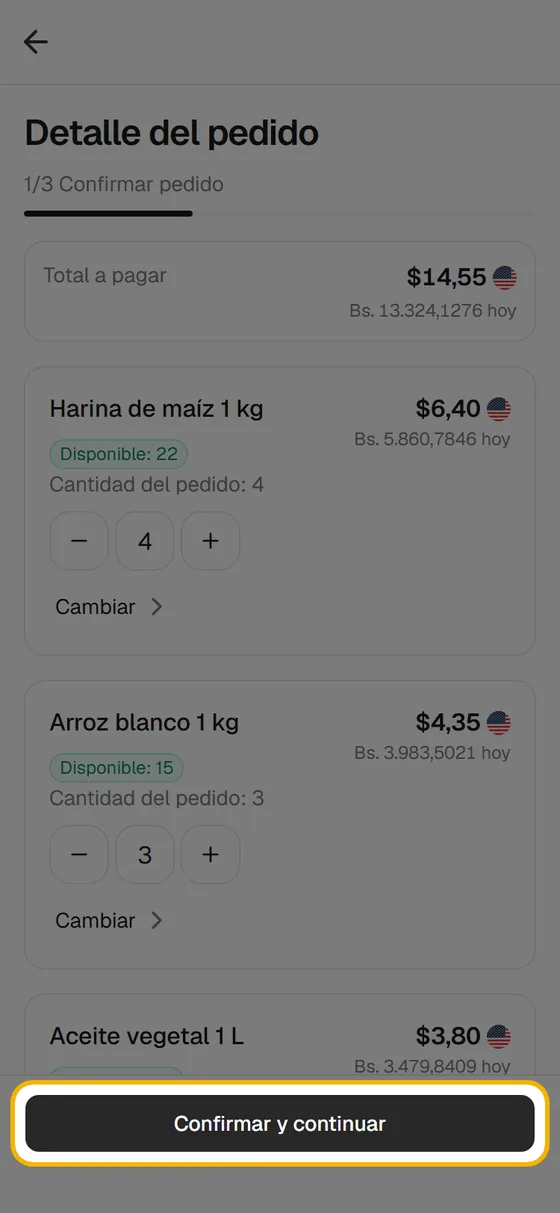
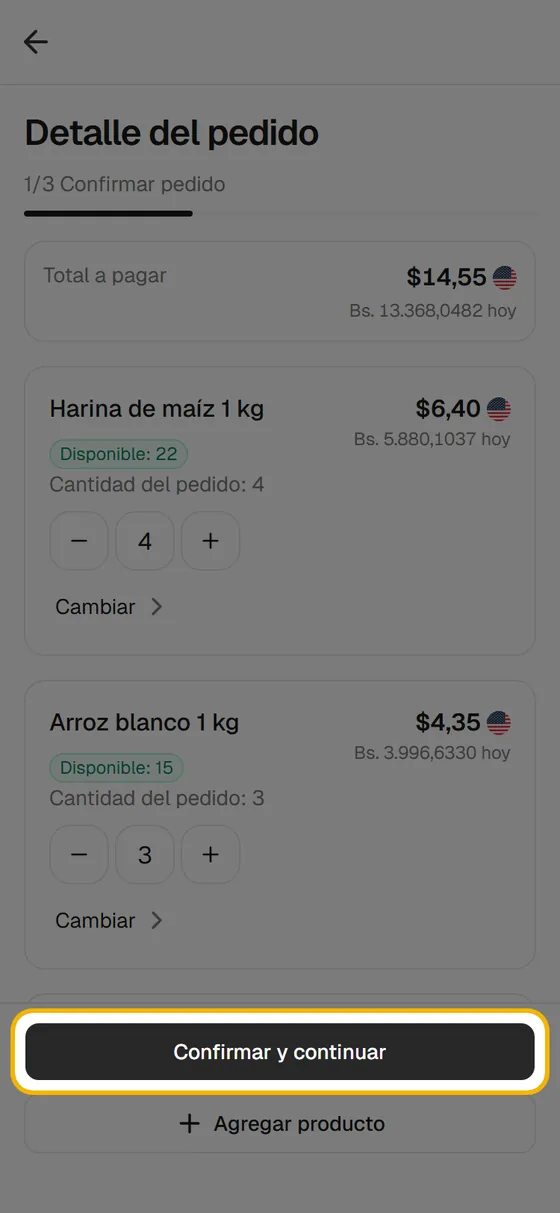
Ayuda v0.11.0: «Agregar producto» al pedido, la calculadora del enlace y el cierre del mes
- Atender un pedido: paso nuevo con «Agregar producto» (captura 14), y las
  capturas 5 y 6 con los dos botones del paso 1/3.
- Compartir el link del cliente: la pista de la «Calculadora» bajo el saldo.
- Ver tus reportes: el mes se descarga desde «Descargar», arriba; la tarjeta
  ya no lleva el suyo.

Capturas del negocio de demostración en dev. Textos legales sin cambios.

diff --git a/lib/soporte.ts b/lib/soporte.ts
@@ -253,6 +253,13 @@ export const TEMAS: Tema[] = [
         pista: "Cada producto te dice cuántos tienes disponibles.",
         imagen: "atender-un-pedido/5",
       },
+      {
+        // v0.11.0 (CT-181): products the customer did not order join the sale here. Its picture
+        // is number 14 so the ones after it keep their numbers; 13 is the success screen.
+        texto: "Si tu cliente se lleva algo más, pulsa [[Agregar producto]] y elígelo de tu catálogo, o créalo ahí mismo.",
+        pista: "Entra en la moneda del pedido y solo se suma a la venta: el pedido que ve tu cliente no cambia. Si eliges uno que ya estaba, suma a su cantidad.",
+        imagen: "atender-un-pedido/14",
+      },
       { texto: "Pulsa [[Confirmar y continuar]].", imagen: "atender-un-pedido/6" },
       {
         texto: "En [[2/3 Pago]] elige [[De contado]] o [[Fiado o crédito]], igual que en una venta.",
@@ -299,6 +306,8 @@ export const TEMAS: Tema[] = [
       },
       {
         texto: "Esto es lo que ve tu cliente al abrirlo: lo que debe en cada moneda, cada fiado y cada abono.",
+        // v0.11.0 (CT-180): the calculator under the balances. Venezuelan businesses only.
+        pista: "Si tu negocio está en Venezuela, debajo de su saldo tiene una [[Calculadora]]: con [[Calcular]] ve cuántos bolívares son sus dólares o euros a la tasa del día, y también en USDT.",
         imagen: "compartir-el-link-del-cliente/3",
       },
       {
@@ -592,7 +601,9 @@ export const TEMAS: Tema[] = [
         // v0.10.0: the month's close moved here from Inventario, where v0.9.0 had put it. Its
         // title carries the month, so the label below is an example and says so.
         texto: "Después viene el cierre del mes anterior, por ejemplo [[Cierre de octubre]]: lo mismo, del mes completo.",
-        pista: "Ya descuenta las devoluciones. Con [[Descargar]] te lo llevas en un archivo.",
+        // v0.11.0: the card lost its own «Descargar» (owner's request of 2026-11-19); the month
+        // still downloads from the header's menu.
+        pista: "Ya descuenta las devoluciones. Para llevártelo en un archivo, usa [[Descargar]], arriba.",
         imagen: "ver-tus-reportes/6",
       },
       {

diff --git a/lib/soporte-capturas.ts b/lib/soporte-capturas.ts
@@ -15,6 +15,7 @@ export const CAPTURAS: Record<string, [number, number]> = {
   "atender-un-pedido/11": [560, 657],
   "atender-un-pedido/12": [560, 1213],
   "atender-un-pedido/13": [560, 1213],
+  "atender-un-pedido/14": [560, 1213],
   "calculadora-de-tasa/1": [560, 657],
   "calculadora-de-tasa/2": [560, 657],
   "calculadora-de-tasa/3": [560, 657],
